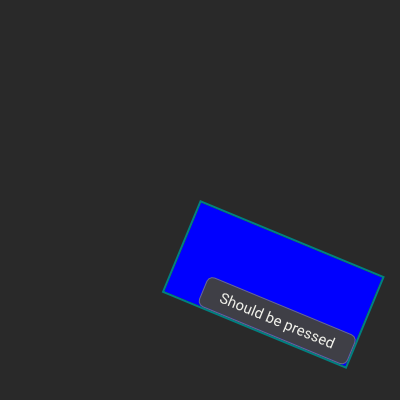
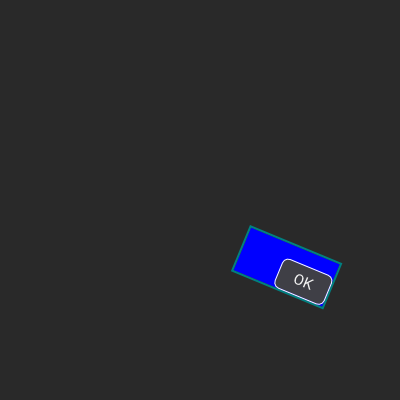
Restore transform testing and add one new transform test.

Changed region(s): [[0.39, 0.48, 0.96, 0.93]]

diff --git a/masonry/src/tests/transforms.rs b/masonry/src/tests/transforms.rs
@@ -3,18 +3,16 @@
 
 //! Tests related to transforms.
 
-use std::f64::consts::PI;
+use core::f64::consts::PI;
 
-use masonry_testing::WrapperWidget;
-
-use crate::core::{NewWidget, PropertySet, Widget, WidgetOptions};
-use crate::kurbo::{Affine, Vec2};
-use crate::layout::AsUnit;
+use crate::core::{NewWidget, PropertySet, Widget, WidgetTag};
+use crate::kurbo::{Affine, Point, Vec2};
+use crate::layout::{AsUnit, SizeDef, UnitPoint};
 use crate::peniko::color::palette;
-use crate::properties::types::UnitPoint;
-use crate::properties::{Background, BorderColor, BorderWidth};
-use crate::testing::{TestHarness, assert_render_snapshot};
-use crate::theme::default_property_set;
+use crate::properties::{Background, BorderColor, BorderWidth, Dimensions, Padding};
+use crate::testing::{ModularWidget, TestHarness, WrapperWidget, assert_render_snapshot};
+use crate::tests::{assert_point_approx_eq, assert_vec2_approx_eq};
+use crate::theme::test_property_set;
 use crate::widgets::{Button, ChildAlignment, Label, SizedBox, ZStack};
 
 fn blue_box(inner: impl Widget) -> impl Widget {
@@ -24,50 +22,116 @@ fn blue_box(inner: impl Widget) -> impl Widget {
     box_props.insert(BorderWidth::all(2.px()));
 
     WrapperWidget::new(
-        SizedBox::new(inner.prepare())
-            .width(200.px())
-            .height(100.px())
-            .with_props(box_props),
+        NewWidget::new(
+            SizedBox::new(inner.prepare())
+                .width(100.px())
+                .height(50.px()),
+        )
+        .with_props(box_props),
     )
 }
 
 #[test]
 fn transforms_translation_rotation() {
     let translation = Vec2::new(100.0, 50.0);
-    let transformed_widget = NewWidget::new(blue_box(Label::new("Background"))).with_options(
-        // Currently there's no support for changing the transform-origin, which is currently at the top left.
+    let transformed_widget = NewWidget::new(blue_box(Label::new("Background"))).with_transform(
+        // Currently there's no support for changing the transform-origin,
+        // which is currently at the top left.
         // This rotates around the center of the widget
-        WidgetOptions {
-            transform: Affine::translate(-translation)
-                .then_rotate(PI * 0.25)
-                .then_translate(translation),
-            ..Default::default()
-        },
+        Affine::translate(-translation)
+            .then_rotate(PI * 0.25)
+            .then_translate(translation),
     );
     let widget = ZStack::new()
-        .with_fixed(transformed_widget, ChildAlignment::ParentAligned)
+        .with(transformed_widget, ChildAlignment::ParentAligned)
         .prepare();
 
-    let mut harness = TestHarness::create(default_property_set(), widget);
+    let mut harness = TestHarness::create(test_property_set(), widget);
+
     assert_render_snapshot!(harness, "transforms_translation_rotation");
 }
 
 #[test]
 fn transforms_pointer_events() {
-    let transformed_widget = NewWidget::new(blue_box(ZStack::new().with_fixed(
-        Button::with_text("Should be pressed").prepare(),
-        UnitPoint::BOTTOM_RIGHT,
-    )))
-    .with_options(WidgetOptions {
-        transform: Affine::rotate(PI * 0.125).then_translate(Vec2::new(100.0, 50.0)),
-        ..Default::default()
-    });
+    let transformed_widget = NewWidget::new(blue_box(
+        ZStack::new().with(Button::with_text("OK").prepare(), UnitPoint::BOTTOM_RIGHT),
+    ))
+    .with_transform(Affine::rotate(PI * 0.125).then_translate(Vec2::new(100.0, 50.0)));
     let widget = ZStack::new()
-        .with_fixed(transformed_widget, ChildAlignment::ParentAligned)
+        .with(transformed_widget, ChildAlignment::ParentAligned)
         .prepare();
 
-    let mut harness = TestHarness::create(default_property_set(), widget);
-    harness.mouse_move((335.0, 350.0)); // Should hit the last "d" of the button text
+    let mut harness = TestHarness::create(test_property_set(), widget);
+
+    harness.mouse_move((300.0, 280.0)); // Should hit the "O" of the button text
     harness.mouse_button_press(None);
+
     assert_render_snapshot!(harness, "transforms_pointer_events");
+}
+
+#[test]
+fn transforms_handle_content_box_space_translation() {
+    let tag = WidgetTag::unique();
+    let child = NewWidget::new(SizedBox::empty().size(10.px(), 8.px()))
+        .with_tag(tag)
+        .with_transform(Affine::scale_non_uniform(2., 3.))
+        .with_props((
+            BorderWidth::all(0.5.px()),
+            Padding {
+                left: 1.px(),
+                right: 0.5.px(),
+                top: 2.px(),
+                bottom: 1.5.px(),
+            },
+        ));
+
+    let root = ModularWidget::new_parent(child)
+        .layout_fn(|child, ctx, _, size| {
+            let child_size = ctx.compute_size(child, SizeDef::fit(size), size.into());
+            ctx.run_layout(child, child_size);
+            ctx.place_child(child, Point::new(5., 7.));
+        })
+        .prepare()
+        .with_props(Dimensions::fixed(40.px(), 40.px()));
+
+    let harness = TestHarness::create(test_property_set(), root);
+    let child = harness.get_widget(tag);
+    let ctx = child.ctx();
+
+    // Border 0.5 + padding (1.0,2.0) gives top-left content inset (1.5,2.5).
+    assert_vec2_approx_eq(
+        "border_box_translation",
+        ctx.border_box_translation(),
+        Vec2::new(1.5, 2.5),
+    );
+    // (0,0) + content inset (1.5,2.5), then scale (2,3) and add layout origin (5,7).
+    assert_point_approx_eq(
+        "to_window content origin",
+        ctx.to_window(Point::ORIGIN),
+        Point::new(8., 14.5),
+    );
+    // (2,1) + content inset (1.5,2.5) = (3.5,3.5), then scale (2,3) and add (5,7).
+    assert_point_approx_eq(
+        "to_window local point",
+        ctx.to_window(Point::new(2., 1.)),
+        Point::new(12., 17.5),
+    );
+    // Border box origin (-1.5,-2.5) cancels content inset, leaving the layout origin (5,7).
+    assert_point_approx_eq(
+        "to_window border origin",
+        ctx.to_window(ctx.border_box().origin()),
+        Point::new(5., 7.),
+    );
+    // Inverse: ((12,17.5) - (5,7)) / (2,3) = (3.5,3.5), then subtract inset (1.5,2.5).
+    assert_point_approx_eq(
+        "to_local",
+        ctx.to_local(Point::new(12., 17.5)),
+        Point::new(2., 1.),
+    );
+    // window_transform bakes in the required calculations and achieves the same result.
+    assert_point_approx_eq(
+        "window_transform",
+        ctx.window_transform() * Point::new(2., 1.),
+        Point::new(12., 17.5),
+    );
 }

diff --git a/masonry/src/tests/mod.rs b/masonry/src/tests/mod.rs
@@ -5,7 +5,7 @@
 //! both to centralize tests in a single crate and to have access to the `masonry`
 //! widget/property set in our tests if needed.
 
-use crate::kurbo::Rect;
+use crate::kurbo::{Point, Rect, Vec2};
 
 mod accessibility;
 mod action;
@@ -16,6 +16,7 @@ mod layout;
 mod mutate;
 mod paint;
 mod properties;
+mod transforms;
 mod update;
 mod widget_tag;
 
@@ -25,6 +26,18 @@ pub(crate) fn assert_approx_eq(name: &str, actual: f64, expected: f64) {
         (actual - expected).abs() <= 1e-9,
         "{name}: expected {expected}, got {actual}"
     );
+}
+
+#[track_caller]
+pub(crate) fn assert_point_approx_eq(name: &str, actual: Point, expected: Point) {
+    assert_approx_eq(&format!("{name}.x"), actual.x, expected.x);
+    assert_approx_eq(&format!("{name}.y"), actual.y, expected.y);
+}
+
+#[track_caller]
+pub(crate) fn assert_vec2_approx_eq(name: &str, actual: Vec2, expected: Vec2) {
+    assert_approx_eq(&format!("{name}.x"), actual.x, expected.x);
+    assert_approx_eq(&format!("{name}.y"), actual.y, expected.y);
 }
 
 #[track_caller]